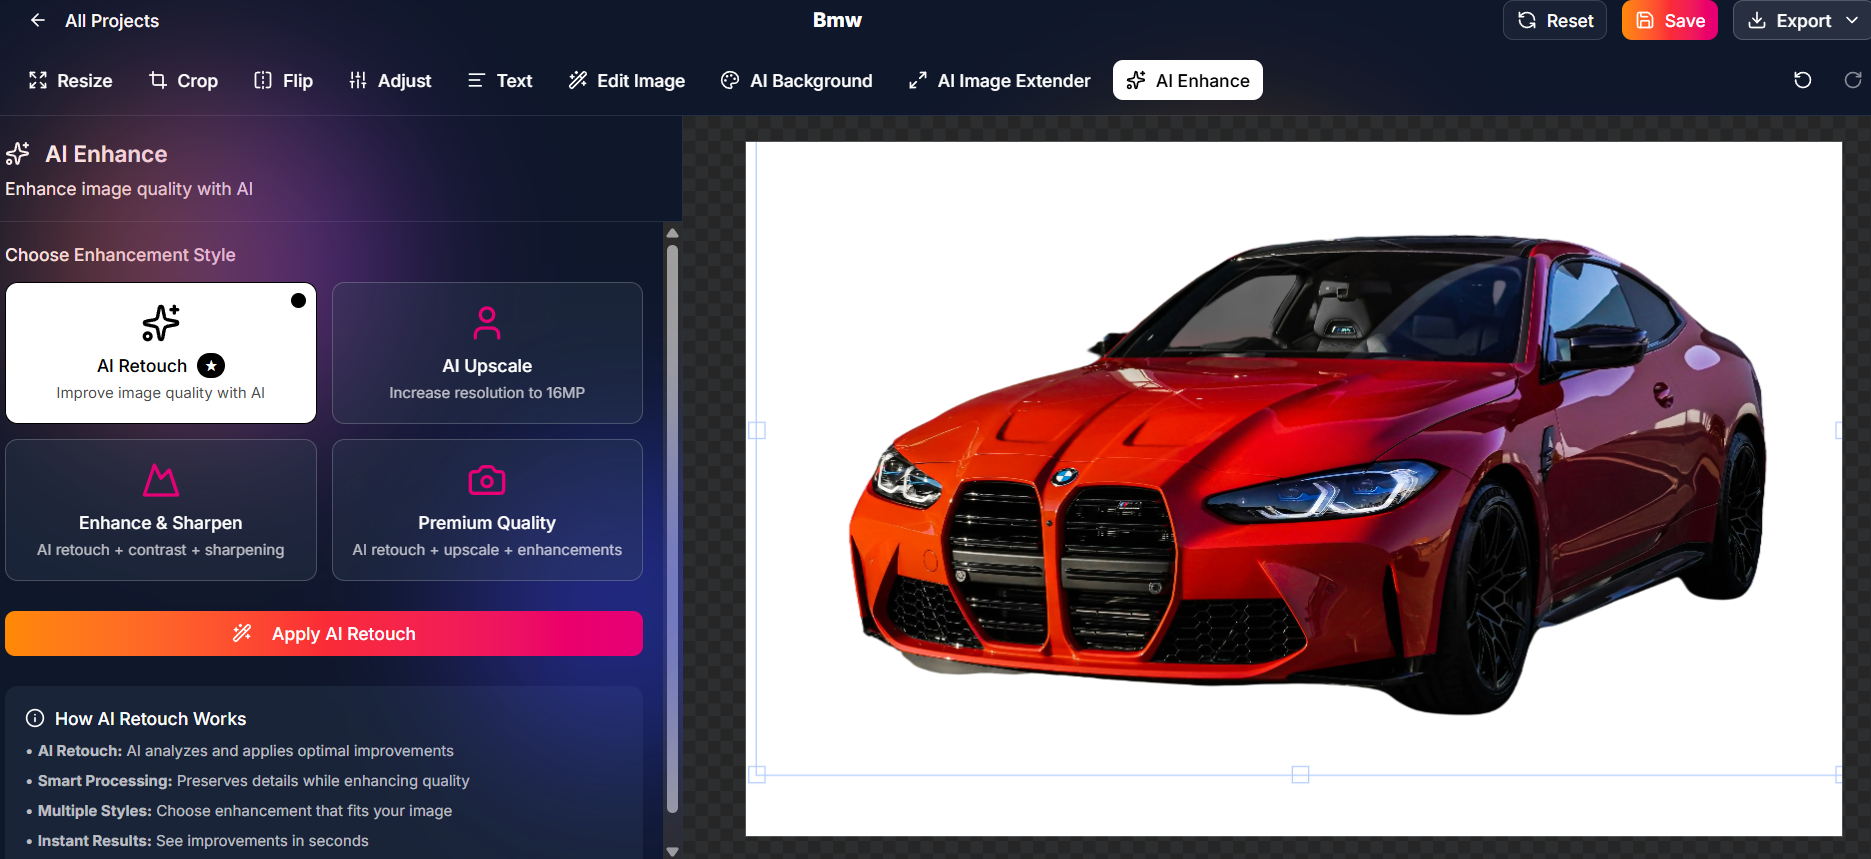
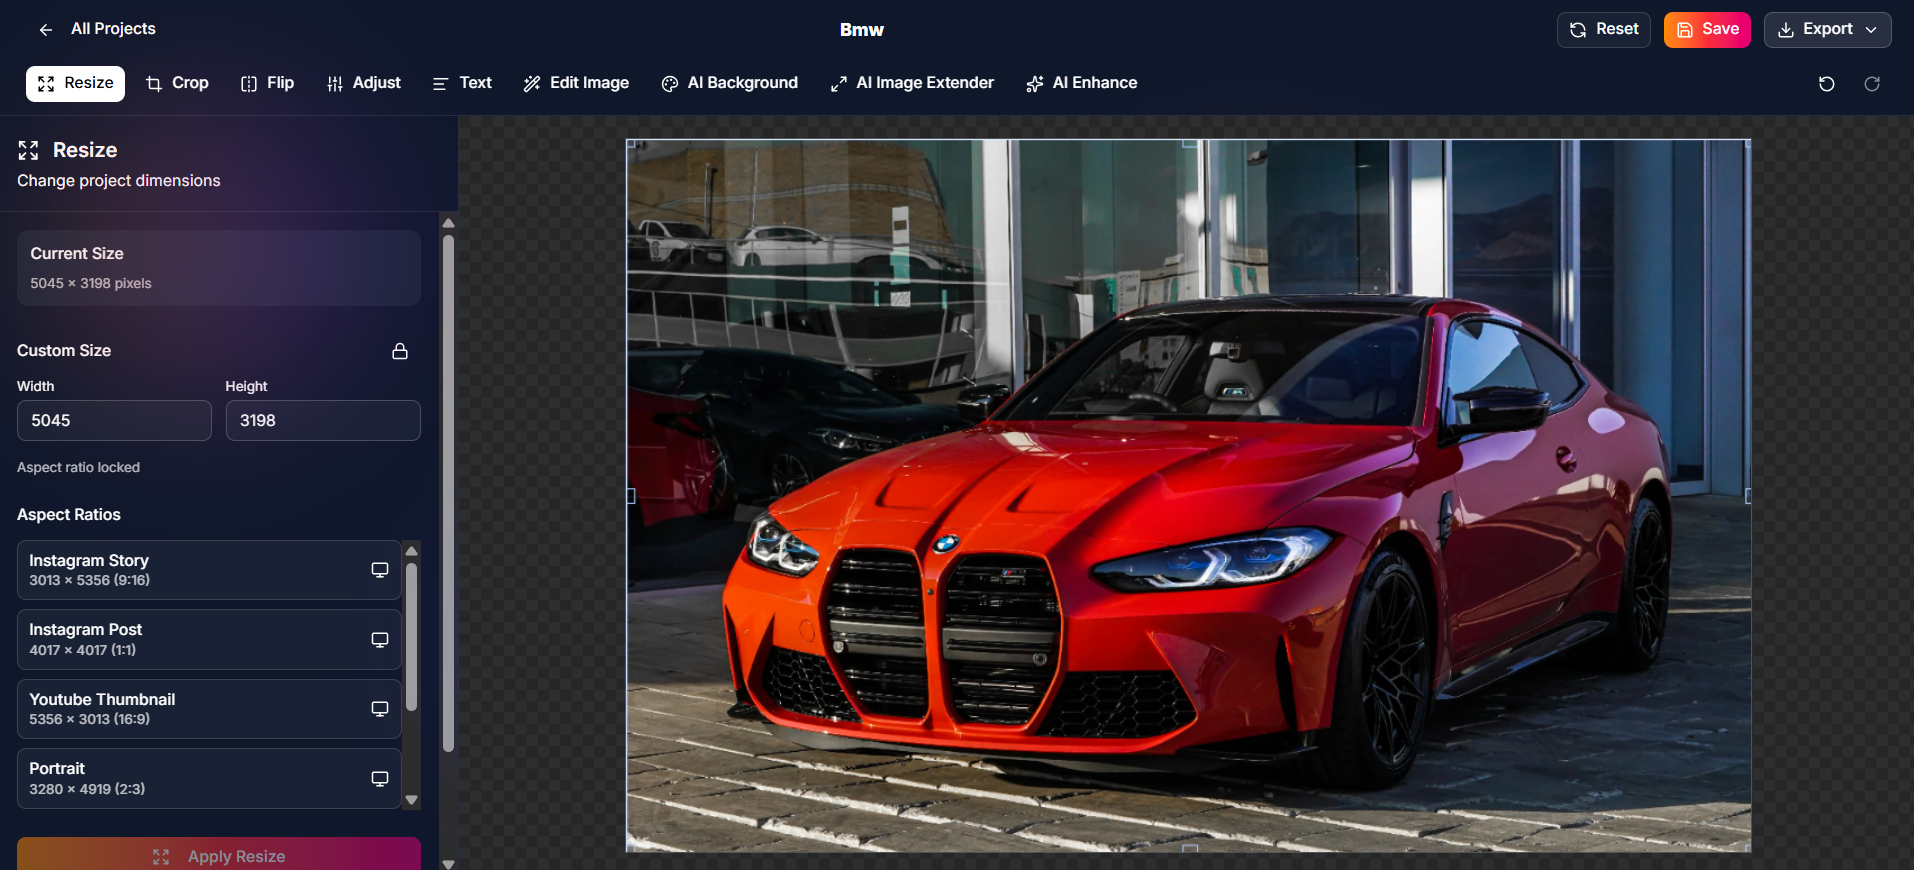
link fixed

diff --git a/src/constants/index.js b/src/constants/index.js
@@ -139,7 +139,10 @@ export const myProjects = [
     images: [
       "/assets/projects/Luminist/2026-06-16 17 18 09.png",
       "/assets/projects/Luminist/2026-06-16 17 20 13.png",
-      "/assets/projects/Luminist/2026-06-16 17 21 24.png"
+      "/assets/projects/Luminist/2026-06-16 17 21 24.png",
+      "/assets/projects/Luminist/2026-07-23 11 36 40.png",
+      "/assets/projects/Luminist/2026-07-23 11 39 19.png",
+      "/assets/projects/Luminist/2026-07-23 11 39 34.png"
     ],
     tags: [
       { id: 1, name: "Next.js", path: "/assets/logos/react.svg" },
@@ -219,7 +222,7 @@ export const experiences = [
       "Completed intensive virtual training on Android application architecture, UI design, and platform integrations.",
       "Gained hands-on experience building and deploying Android apps using modern developer tools and practices.",
       "Internship Profile https://g.dev/suvra",
-      "Certificate  https://shorturl.at/P1uHq",
+      "Certificate https://drive.google.com/file/d/1Ct77gvVZ1IANpbuovtEjU85ljKhkZJ87/view",
     ],
   },
   {

diff --git a/src/components/TransitionBridge.jsx b/src/components/TransitionBridge.jsx
@@ -286,7 +286,7 @@ export const TransitionBridge = () => {
                       <p className="text-[11px] font-semibold text-neutral-600 uppercase">Google &amp; AICTE EduSkills</p>
                       <div className="flex flex-wrap gap-2 pt-1">
                         <LiveButton href="https://g.dev/suvra" label="DEV PROFILE" />
-                        <LiveButton href="https://shorturl.at/P1uHq" label="CERTIFICATE" />
+                        <LiveButton href="https://drive.google.com/file/d/1Ct77gvVZ1IANpbuovtEjU85ljKhkZJ87/view" label="CERTIFICATE" />
                       </div>
                     </div>
 